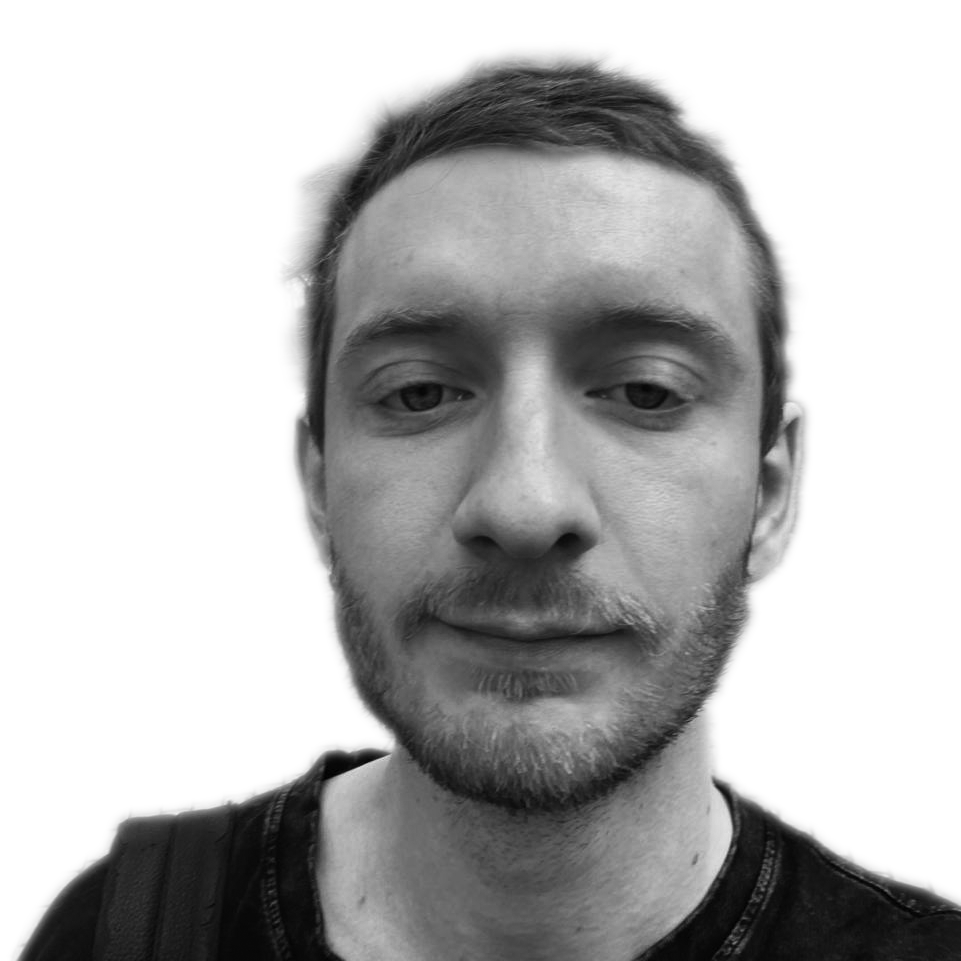
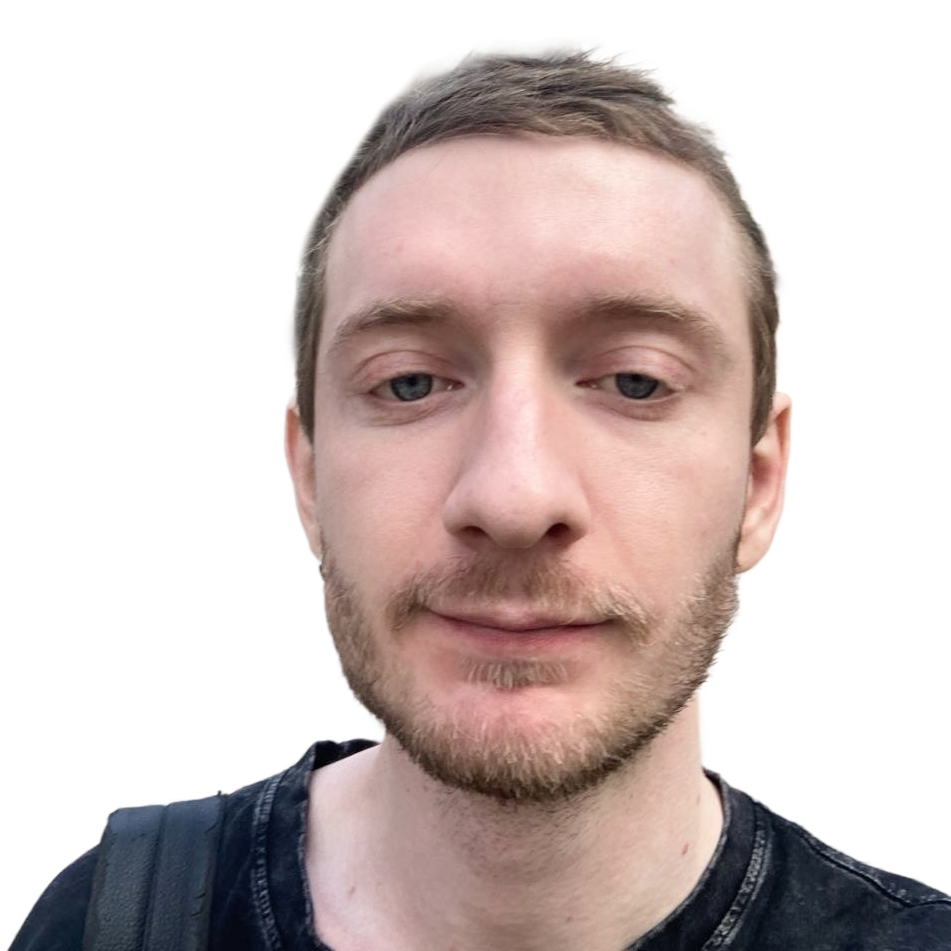
number of changes

diff --git a/src/index.html b/src/index.html
@@ -51,39 +51,44 @@
 
     <div class="container mb-40 flex max-w-full flex-col md:mb-0">
       <!--who-->
-      <div id="who" class="3xl:px-150 4xl:px-175 mt-10 flex min-h-screen w-full flex-col items-start justify-center gap-10 self-start px-5 lg:gap-25 lg:px-75">
+      <div id="who" class="3xl:mx-150 4xl:mx-175 relative mx-5 mt-10 flex min-h-screen w-auto flex-col items-start justify-center gap-10 self-start lg:mx-75 lg:gap-25">
         <div class="flex flex-wrap place-items-end gap-x-5">
           <h1 class="glow xl:leading-30">{{ t('hero') }}</h1>
           <Icons icon="star" class="hidden"></Icons>
           <h4 class="pb-5">{{ t('portfolio')}}</h4>
         </div>
         <p>{{ t('intro') }}</p>
+        <div class="light:bg-[var(--yellow)] absolute top-[27.5%] right-[12.5%] -z-1 hidden h-65 w-65 md:block">
+          <img alt="" class="mix-blend-luminosity grayscale" src="assets/images/me.png" />
+        </div>
       </div>
 
       <!--about-->
-      <div id="what" class="light:bg-[var(--black)] 3xl:px-150 4xl:px-175 relative flex min-h-screen scroll-mt-5 flex-col justify-center gap-10 px-5 py-10 lg:px-75 xl:gap-10">
-        <h2 class="light:text-[var(--white)]">{{ t('menu-what') }}</h2>
-        <div class="flex flex-col justify-between justify-center gap-10 2xl:flex-row">
-          <futures :title="t('about-efficiency-title')" :text="t('about-efficiency-text')" number="01"></futures>
-          <futures :title="t('about-system-title')" :text="t('about-system-text')" number="02"></futures>
-          <futures :title="t('about-strategy-title')" :text="t('about-strategy-text')" number="03"></futures>
+      <div id="what" class="light:bg-[var(--black)] relative min-h-screen">
+        <div class="3xl:mx-150 4xl:mx-175 mx-5 my-10 flex scroll-mt-5 flex-col justify-center gap-10 lg:mx-75 xl:gap-10">
+          <h2 class="light:text-[var(--white)]">{{ t('menu-what') }}</h2>
+          <div class="flex flex-col justify-between justify-center gap-10 2xl:flex-row">
+            <futures :title="t('about-efficiency-title')" :text="t('about-efficiency-text')" number="01"></futures>
+            <futures :title="t('about-system-title')" :text="t('about-system-text')" number="02"></futures>
+            <futures :title="t('about-strategy-title')" :text="t('about-strategy-text')" number="03"></futures>
+          </div>
         </div>
         <img alt="" class="absolute right-[5%] bottom-0 opacity-6 lg:w-150" src="assets/images/soma.png" />
       </div>
 
       <!--stack-->
-      <div id="stack" class="3xl:px-150 4xl:px-175 grid gap-10 min-h-screen scroll-mt-5 gap-10 px-5 pt-10 lg:px-75 xl:gap-10 content-center">
+      <div id="stack" class="3xl:mx-150 4xl:mx-175 mx-5 mt-10 grid min-h-screen scroll-mt-5 content-center gap-10 lg:mx-75 xl:gap-10">
         <h2>{{ t('menu-stack') }}</h2>
         <p>{{ t('stack-paragraph') }}</p>
       </div>
 
       <!--projects-->
-      <div id="projects" class="grid min-h-screen scroll-mt-5 gap-10 px-5 pt-10 md:px-0 content-start">
-        <h2 class="3xl:px-150 4xl:px-175 lg:px-75 xl:gap-10">{{ t('menu-projects') }}</h2>
-        <p class="3xl:px-150 4xl:px-175 lg:px-75 xl:gap-10">{{ t('projects-paragraph') }}</p>
+      <div id="projects" class="grid min-h-screen scroll-mt-5 content-start gap-10 pt-10">
+        <h2 class="3xl:mx-150 4xl:mx-175 mx-5 lg:mx-75 xl:gap-10">{{ t('menu-projects') }}</h2>
+        <p class="3xl:mx-150 4xl:mx-175 mx-5 lg:mx-75 xl:gap-10">{{ t('projects-paragraph') }}</p>
 
         <div class="swiper mySwiper h-fit w-full">
-          <div class="swiper-pagination light:bg-[var(--yellow)] relative! bottom-0! px-10 py-2"></div>
+          <div class="swiper-pagination 3pl:mx-150 4xl:px-175 light:bg-[var(--yellow)] relative! bottom-0! flex h-10 flex-wrap content-center justify-start gap-2 px-10 lg:px-75"></div>
           <div class="swiper-wrapper">
             <div class="swiper-slide">
               <project
@@ -144,12 +149,12 @@
       </div>
 
       <!--design-->
-      <div id="design" class="3xl:px-150 4xl:px-175 grid min-h-screen scroll-mt-5 gap-10 px-5 pt-10 md:px-0 lg:px-75 content-center">
+      <div id="design" class="3xl:mx-150 4xl:mx-175 grid min-h-screen scroll-mt-5 content-center gap-10 mx-5 pt-10 md:mx-0 lg:mx-75">
         <h2>{{ t('menu-design') }}</h2>
         <hr />
         <p>{{ t('design-paragraph') }}</p>
 
-        <div class="gri-cols-1 grid gap-10 xl:grid-cols-2 2xl:grid-cols-3">
+        <div class="gri-cols-1 grid gap-10 md:grid-cols-2 2xl:grid-cols-3">
           <items :item-name="t('design-subscout-title')" :item-desc="t('design-subscout-text')" item-url="https://www.figma.com/design/CwXLxZTzgnAwNtTYR4jlIy/7-%D1%81%D0%BF%D1%80%D0%B8%D0%BD%D1%82.-Subscout?node-id=8201-5919&t=ppyJz1Pd15phVZQ3-1" item-img-alt=""></items>
           <items :item-name="t('design-baikal-title')" :item-desc="t('design-baikal-text')" item-url="https://www.figma.com/design/3guaIoPCUsvlHYjlqyoUlB/4-%D1%81%D0%BF%D1%80%D0%B8%D0%BD%D1%82.-%D0%9B%D0%B5%D0%BD%D0%B4%D0%B8%D0%BD%D0%B3-%D0%B4%D0%BB%D1%8F-%D1%82%D1%83%D1%80%D0%B8%D1%81%D1%82%D0%B8%D1%87%D0%B5%D1%81%D0%BA%D0%BE%D0%B3%D0%BE-%D0%BA%D0%BB%D1%83%D0%B1%D0%B0?node-id=1-23&t=i3AvYlIGIdL9S8E7-1" item-img-alt=""></items>
           <items :item-name="t('design-pioner-title')" :item-desc="t('design-pioner-text')" item-url="https://www.figma.com/design/Osr20bZq5VITub93mkJT6d/3-%D1%81%D0%BF%D1%80%D0%B8%D0%BD%D1%82.-%D0%9F%D0%B8%D0%BE%D0%BD%D0%B5%D1%80?node-id=22-20&t=wfIEsNfXeRBmDyeO-1" item-img-alt=""></items>
@@ -157,7 +162,7 @@
       </div>
     </div>
     <div class="light:hidden noise -1 block"></div>
-    <div class="dotted-grid fixed top-0 -z-1 block h-full w-full dark:hidden"></div>
+    <div class="dotted-grid fixed top-0 -z-2 block h-full w-full dark:hidden"></div>
     <img alt="" class="light:hidden fixed top-10 right-20 opacity-3 lg:h-[85%]" src="assets/images/soma.png" />
   </body>
 </html>

diff --git a/src/js/components/projects.vue b/src/js/components/projects.vue
@@ -1,19 +1,23 @@
 <template>
   <div class="flex flex-row">
-    <div class="light:text-[var(--white)]! light:bg-[var(--black)] 3xl:pl-150 4xl:pl-175 h-fit w-full lg:pl-75">
-      <div class="flex flex-col gap-10 p-10">
-        <h3>{{ projectName }}</h3>
-        <p>{{ projectDescription }}</p>
-      </div>
-      <div class="flex w-full flex-row justify-end">
-        <Button v-for="(link, index) in projectLinks" :key="index" :url="link.url" :name="link.name" />
+    <div class="light:text-[var(--white)]! light:bg-[var(--black)] w-[50%]">
+      <div class="3xl:ml-150 4xl:ml-175 h-auto lg:ml-75">
+        <div class="flex flex-col gap-10 py-10 pr-10">
+          <h3>{{ projectName }}</h3>
+          <p>{{ projectDescription }}</p>
+        </div>
+        <div class="flex w-full flex-row justify-end">
+          <Button v-for="(link, index) in projectLinks" :key="index" :url="link.url" :name="link.name" />
+        </div>
       </div>
     </div>
-    <div class="light:bg-[var(--yellow)] 3xl:pr-150 4xl:pr-175 hidden w-full flex-col justify-between gap-10 p-10 md:flex lg:pr-75">
-      <h3>{{ t("projects-stat-after-launch") }}</h3>
-      <p>{{ projectResult }}</p>
-      <div>
-        <p v-for="(statistic, index) in projectStatistic" :key="index">{{ statistic }}</p>
+    <div class="light:bg-[var(--yellow)] w-[50%]">
+      <div class="3xl:mr-150 4xl:mr-175 my-10 ml-10 hidden flex-col justify-between gap-10 md:flex lg:mr-75">
+        <h3>{{ t("projects-stat-after-launch") }}</h3>
+        <p>{{ projectResult }}</p>
+        <div>
+          <p v-for="(statistic, index) in projectStatistic" :key="index">{{ statistic }}</p>
+        </div>
       </div>
     </div>
   </div>

diff --git a/src/style.scss b/src/style.scss
@@ -58,13 +58,13 @@ $transition: all 0.3s cubic-bezier(0.65, 0.05, 0.36, 1);
   a {
     &:hover {
       background-color: $black;
-      color: $white !important;
+      color: $white;
     }
 
     &:hover polygon,
     &:hover path {
       background-color: $transparent;
-      fill: $black;
+      fill: red;
     }
   }
 
@@ -404,4 +404,27 @@ polygon.star {
   h4 {
     font-size: 1rem;
   }
+}
+
+svg > * {
+  &:hover {
+    fill: red;
+  }
+}
+
+.swiper-pagination-bullet {
+  width: 24px !important;
+  height: 24px !important;
+  margin: 0 !important;
+  opacity: 1 !important;
+  background: $white !important;
+}
+
+.swiper-pagination-bullet-active {
+  background: $black !important;
+}
+
+.custom-invert {
+  mix-blend-mode: difference;
+  filter: invert(100%);
 }

diff --git a/src/js/scroll.js b/src/js/scroll.js
@@ -37,7 +37,7 @@ document.addEventListener("DOMContentLoaded", function () {
       () => {
         isProgrammaticScroll = false;
       },
-      { once: true }
+      { once: true },
     );
   }
 
@@ -72,7 +72,7 @@ document.addEventListener("DOMContentLoaded", function () {
         () => {
           isProgrammaticScroll = false;
         },
-        { once: true }
+        { once: true },
       );
     });
 

diff --git a/src/script.js b/src/script.js
@@ -13,9 +13,12 @@ window.onscroll = updateProgressBar;
 new Swiper(".mySwiper", {
   direction: "horizontal",
   slidesPerView: 1,
-  mousewheel: true,
   pagination: {
     el: ".swiper-pagination",
-    type: "fraction",
+    clickable: true,
+  },
+  autoplay: {
+    delay: 100000,
+    disableOnInteraction: false,
   },
 });
